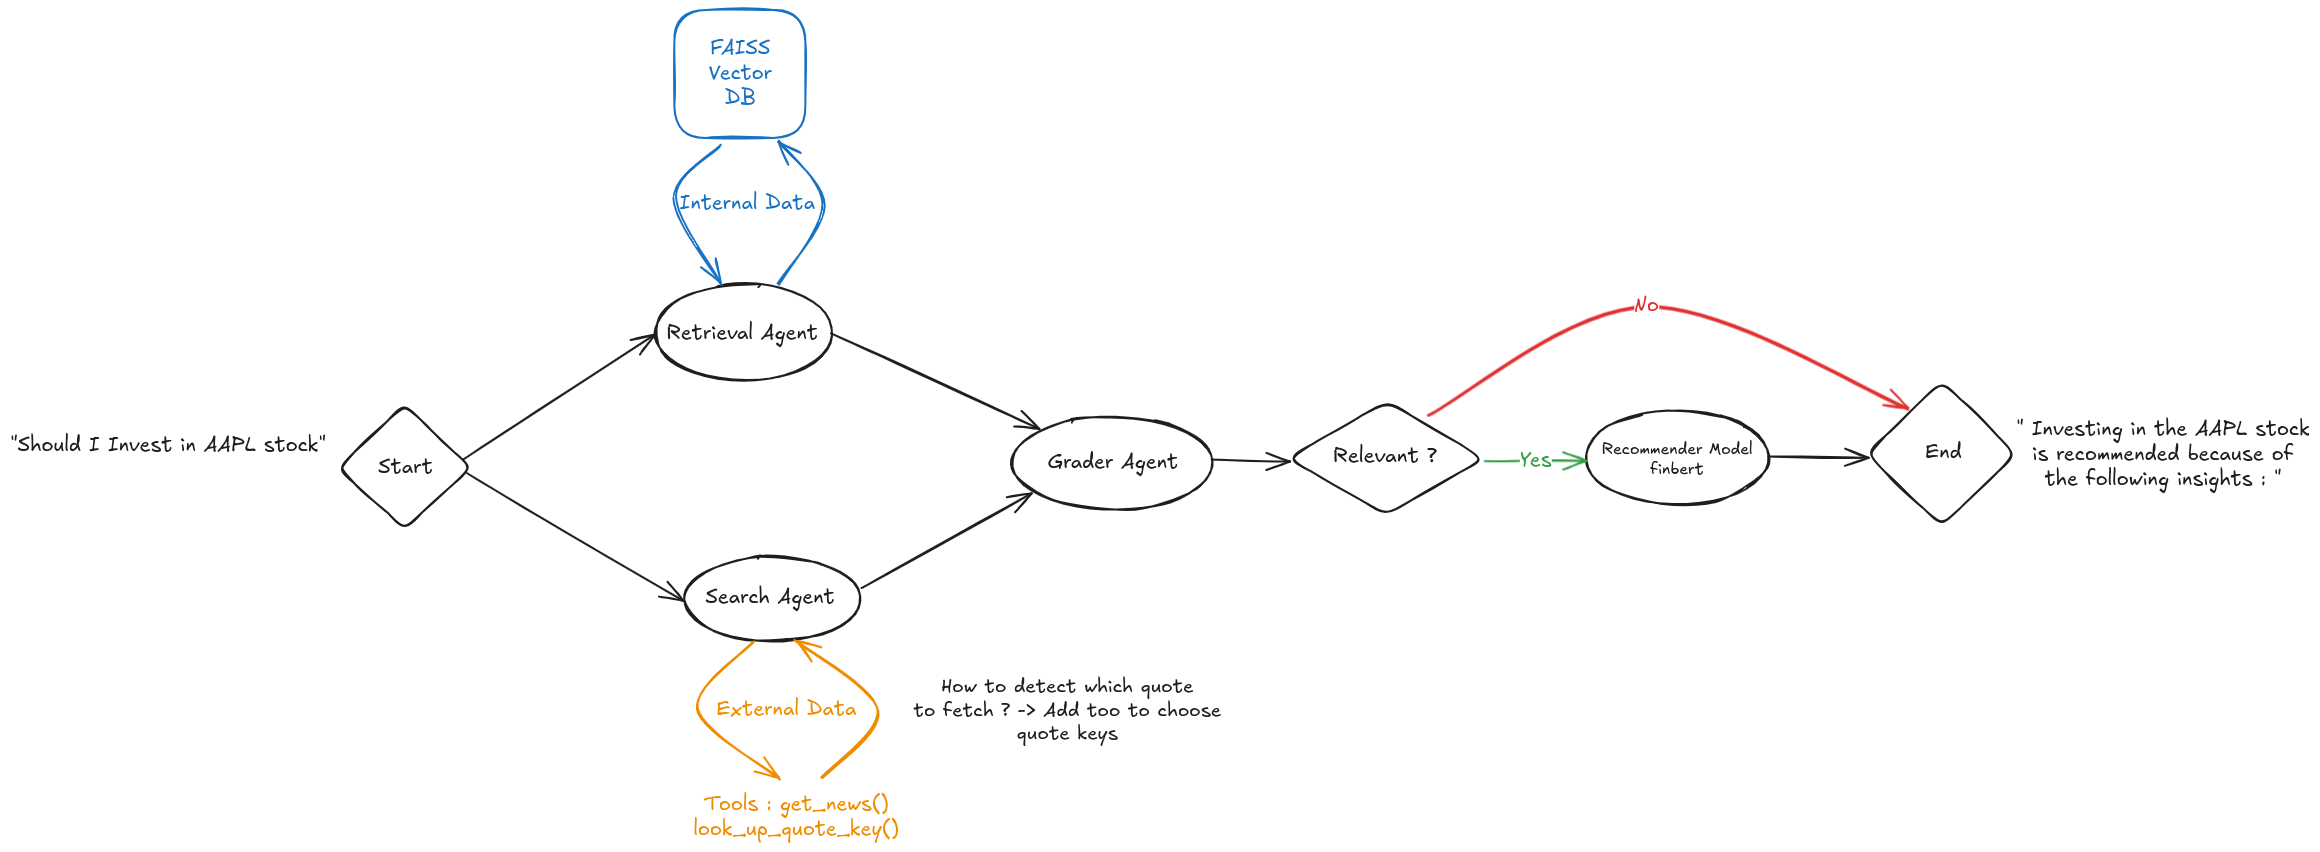
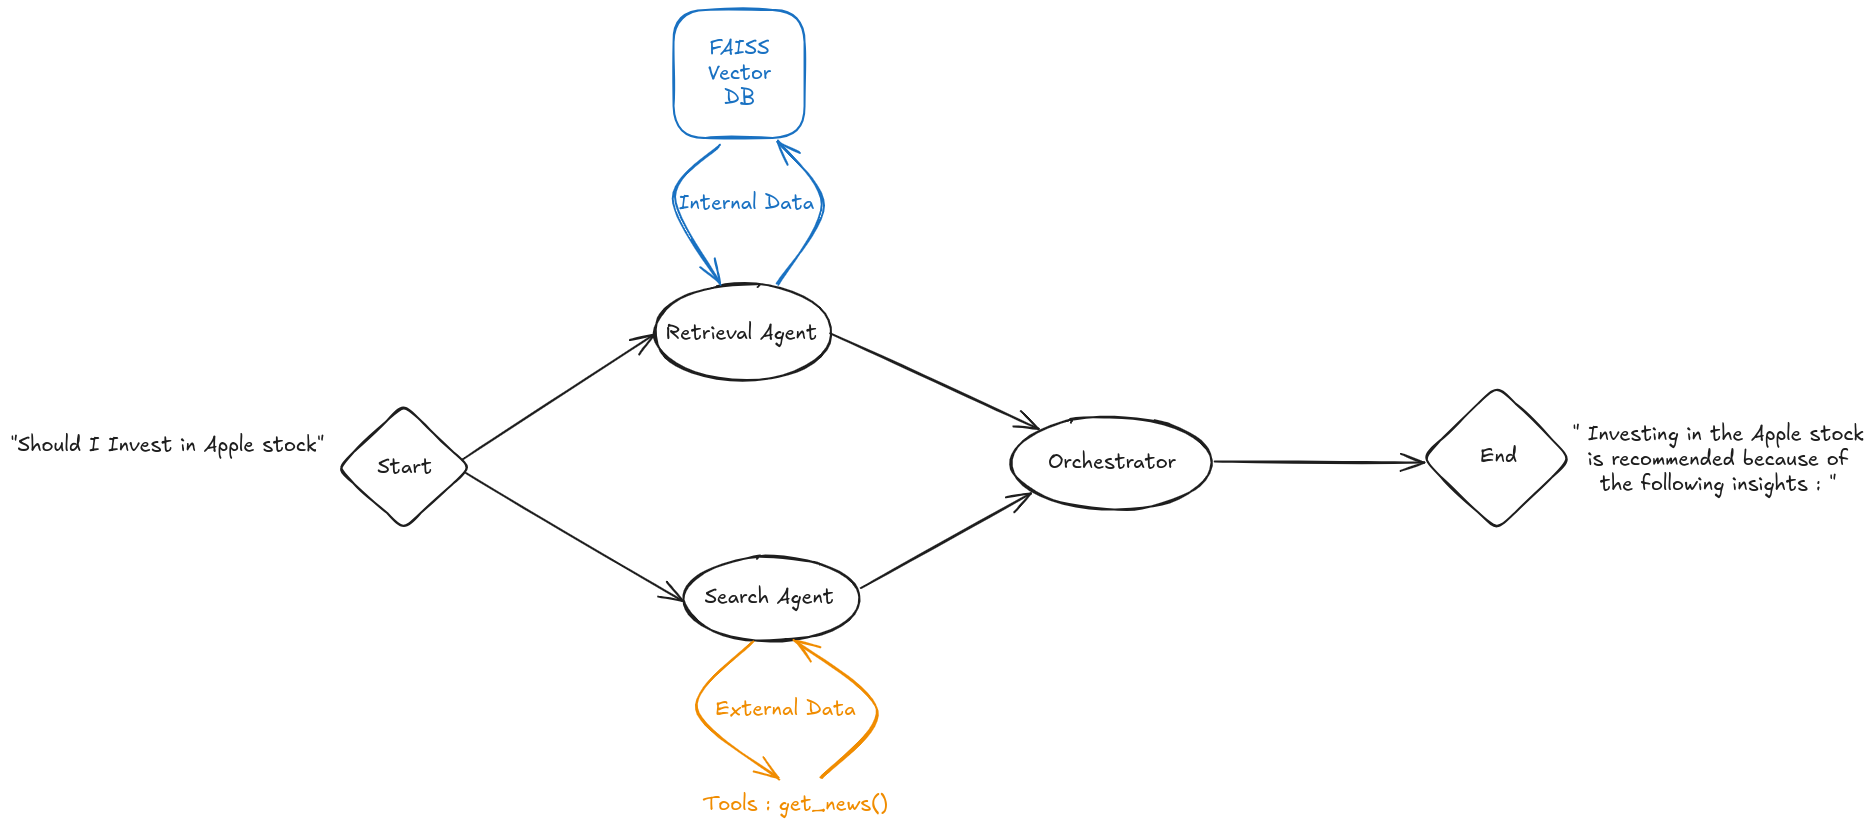
Better Finance Tools

diff --git a/scripts/yfinance_search_agent.py b/scripts/yfinance_search_agent.py
@@ -1,9 +1,7 @@
-from typing import Dict
 from langchain.agents import Tool, initialize_agent
 from langchain.agents.agent_types import AgentType
 from langchain_openai import ChatOpenAI
-from langchain_community.callbacks.manager import get_openai_callback
-from yfinance import Ticker
+import yfinance_tools
 from dotenv import load_dotenv
 import os
 
@@ -14,88 +12,6 @@ if not OPENAI_API_KEY:
     raise ValueError("OPENAI_API_KEY not found in environment variables")
 
 os.environ["OPENAI_API_KEY"] = OPENAI_API_KEY
-
-# Type definitions
-ParameterMap = Dict[str, str]
-CompanyMap = Dict[str, str]
-
-# Financial parameters mapping
-PARAMETER_MAP: ParameterMap = {
-    "ebitda margin": "ebitdaMargins",
-    "market cap": "marketCap",
-    "previous close": "previousClose",
-    "current price": "currentPrice",
-}
-
-# Company to ticker mapping
-COMPANY_TICKER_MAP: CompanyMap = {
-    "Apple": "AAPL",
-    "Google": "GOOG",
-    "Microsoft": "MSFT",
-    "Tesla": "TSLA",
-}
-
-def extract_ticker_and_param(user_input: str) -> dict:
-    """
-    Extract the company name and financial parameter from the user's query.
-    
-    Args:
-        user_input (str): The user's query string
-        
-    Returns:
-        dict: Dictionary containing ticker and parameter
-    """
-    ticker = None
-    param = None
-    
-    # Convert input to lowercase once for efficiency
-    user_input_lower = user_input.lower()
-    
-    # Find company name
-    for company_name in COMPANY_TICKER_MAP:
-        if company_name.lower() in user_input_lower:
-            ticker = COMPANY_TICKER_MAP[company_name]
-            break
-    
-    # Find parameter
-    for key in PARAMETER_MAP:
-        if key.lower() in user_input_lower:
-            param = PARAMETER_MAP[key]
-            break
-
-    return {"ticker": ticker, "param": param}
-
-def get_quote_info(query: str) -> str:
-    """
-    Get stock quote information based on extracted ticker and parameter.
-    
-    Args:
-        query (str): The original query string
-        
-    Returns:
-        str: Formatted response with the requested information
-    """
-    try:
-        # Extract ticker and parameter from query
-        extracted = extract_ticker_and_param(query)
-        ticker = extracted["ticker"]
-        param = extracted["param"]
-        
-        if not ticker or not param:
-            return "Could not extract ticker or parameter from query."
-        
-        # Get quote information
-        quote = Ticker(ticker).info
-        
-        if param not in quote:
-            return f"Parameter {param} not found for {ticker}"
-            
-        value = quote[param]
-
-        return f"The {param} for {ticker} is {value}"
-        
-    except Exception as e:
-        return f"Error retrieving quote information: {str(e)}"
 
 def create_agent():
     """
@@ -109,7 +25,7 @@ def create_agent():
         tools = [
             Tool(
                 name="get_quote",
-                func=get_quote_info,
+                func=yfinance_tools.get_quote_info,
                 description="Gets stock quote information for a given query"
             )
         ]
@@ -119,9 +35,12 @@ def create_agent():
         # Create prompt template
         prompt_template = """
         You are a helpful financial assistant. Your task is to help users get financial information about companies.
-        When users ask about specific financial metrics, use the get_quote tool directly with their query.
+        When users ask about specific financial metrics, use the get_quote tool by providing it the yfinance ticker
+        and a list of yfinance quote keys corresponding the user's query. 
         
-        User Question: {input}
+        Example of parameters for get_quote call : MSFT, MarketCap, dividendYield, previousClose
+
+        User Query: {input}
         """
 
         # Initialize agent

diff --git a/scripts/yfinance_tools.py b/scripts/yfinance_tools.py
@@ -1,17 +1,39 @@
 from yfinance import Ticker, Search
+import ast
+
+from yfinance import Ticker
+
+def get_quote_info(input_string: str) -> str:
+    # Split the input string
+    parts = [part.strip() for part in input_string.split(',')]
     
-def get_quote_info(ticker, list_params : list[str]) -> dict:
+    # Validate input
+    if len(parts) < 2:
+        return "Invalid input. Please provide ticker and at least one parameter."
+    
+    ticker = parts[0]
     quote = Ticker(ticker).info
-    result = {}
-    for param in list_params:
-        if not param in result.keys():
-            result[param] = quote[param]
-    return result
+    
+    # Collect results
+    results = []
+    for param in parts[1:]:
+        if param not in quote:
+            results.append(f"{param}: Not found")
+        else:
+            results.append(f"{param}: {quote[param]}")
+    
+    # Join results into a multi-line summary
+    return "\n".join(results)
+
 
 def get_news(ticker, max_results:int):
     search = Search(ticker, max_results)
-    result = {}
+    unique_articles = {}
+    news_text = ""
+    
     for article in search.news:
-        if not article["title"] in result.keys():
-            result[article["title"]] = article["link"]
-    return result
+        if article["title"] not in unique_articles:
+            unique_articles[article["title"]] = article["link"]
+            news_text += f"Title: {article['title']}\nLink: {article['link']}\n\n"
+    
+    return news_text

diff --git a/scripts/orcherstrator_agent.py b/scripts/orcherstrator_agent.py
@@ -48,9 +48,11 @@ def create_orchestrator_agent(yfinance_agent, faiss_agent):
         2. Detailed SEC report analysis
 
         When a query is received:
-        - Use StockQuoteTool directly on the user query for immediate financial metrics
-        - Use SECReportsTool directly on the user query for in-depth contextual information
+        - Use StockQuoteTool directly with the full user query for immediate financial metrics
+        - Use SECReportsTool directly with the full user query for in-depth contextual information
         - Synthesize insights from both sources to provide a holistic answer
+
+        Please return the synthetized insights in your response.
 
         User Question: {input}
         """
@@ -73,7 +75,7 @@ def create_orchestrator_agent(yfinance_agent, faiss_agent):
 
 def main():
     """Main function to demonstrate orchestrator agent usage."""
-    query = "what is Microsoft market cap?"
+    query = "Should I Invest in Microsoft"
 
     try:
         search_agent = yfinance_search_agent.create_agent()

diff --git a/scripts/sec_reports_retreival_agent.py b/scripts/sec_reports_retreival_agent.py
@@ -36,7 +36,7 @@ def create_agent():
         # Create prompt template
         prompt_template = """
         You are a helpful financial assistant. Your task is to help users get financial information about companies.
-        Use the RetrieveDocs tool directly with their query in order to retreive more context from SEC reports.
+        Use the RetrieveDocs tool directly with their full query in order to retreive more context from SEC reports.
 
         User Question: {input}
         """
